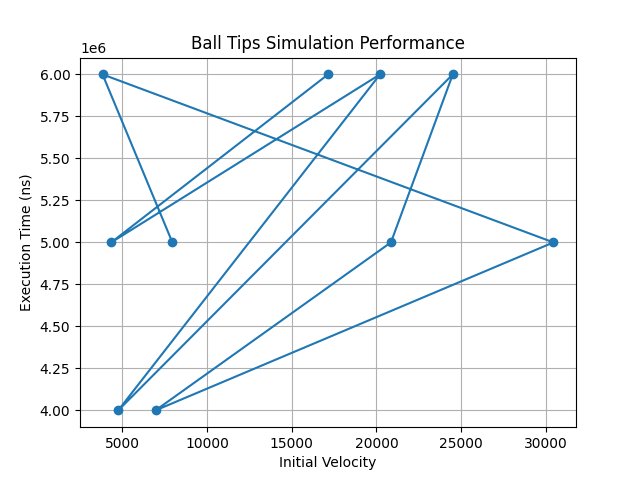
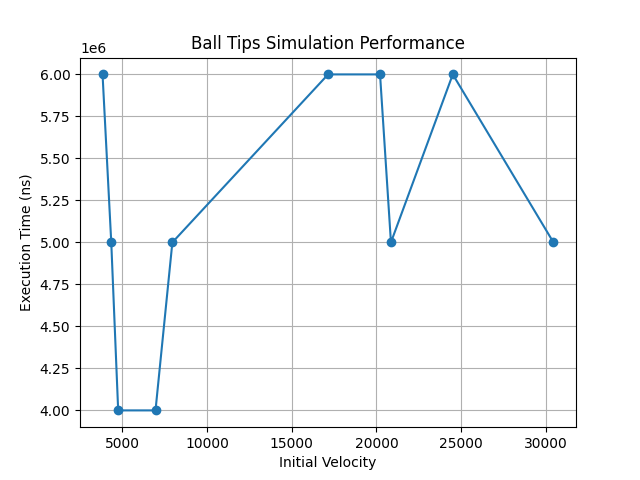
Added Tower of Hanoi Code

diff --git a/Towerofhanoi/towerofhanoi.cpp b/Towerofhanoi/towerofhanoi.cpp
@@ -1,0 +1,143 @@
+// #include <iostream>
+// #include <fstream>
+// #include <cstdlib>
+// #include <ctime>
+// using namespace std;
+
+// // Recursive Tower of Hanoi
+// void towerOfHanoi(int n, char source, char destination, char auxiliary)
+// {
+//     if (n == 1)
+//     {
+//         cout << "Move disk 1 from " << source << " to " << destination << endl;
+//         return;
+//     }
+//     towerOfHanoi(n - 1, source, auxiliary, destination);
+//     cout << "Move disk " << n << " from " << source << " to " << destination << endl;
+//     towerOfHanoi(n - 1, auxiliary, destination, source);
+// }
+
+// // Measure execution time
+// double measureTime(int n)
+// {
+//     clock_t start = clock();
+//     towerOfHanoi(n, 'A', 'B', 'C');  // print moves to console
+//     clock_t end = clock();
+
+//     double seconds = double(end - start) / CLOCKS_PER_SEC;
+//     return seconds * 1000000000.0; // nanoseconds
+// }
+
+// int main()
+// {
+//     const int TESTS = 10;
+//     srand(time(NULL));
+
+//     ofstream file("towerofhanoi.txt");
+//     if (!file) {
+//         cout << "Error creating towerofhanoi.txt file!" << endl;
+//         return 1;
+//     }
+
+//     file << "Test No\tNumber of Disks\tExecution Time (ns)\n";
+//     file << "----------------------------------------------\n";
+
+//     for (int i = 1; i <= TESTS; i++)
+//     {
+//         int n = rand() % 10 + 1;  // 1 to 10 disks
+
+//         cout << "\n----------------------------------------\n";
+//         cout << "Test Case: " << i << endl;
+//         cout << "Number of Disks: " << n << endl;
+//         cout << "Moves: \n";
+
+//         double timeTaken = measureTime(n);
+
+//         cout << "\nExecution Time: " << fixed << timeTaken << " ns\n";
+//         cout << "----------------------------------------\n";
+
+//         // File output (summary only)
+//         file << i << "\t\t" << n << "\t\t" << fixed << timeTaken << "\n";
+//     }
+
+//     file.close();
+
+//     cout << "\nResults saved in towerofhanoi.txt\n";
+//     return 0;
+// }
+#include <iostream>
+#include <fstream>
+#include <cstdlib>
+#include <ctime>
+using namespace std;
+
+// Recursive Tower of Hanoi
+void towerOfHanoi(int n, char source, char destination, char auxiliary)
+{
+    if (n == 1)
+    {
+        cout << "Move disk 1 from " << source << " to " << destination << endl;
+        return;
+    }
+    towerOfHanoi(n - 1, source, auxiliary, destination);
+    cout << "Move disk " << n << " from " << source << " to " << destination << endl;
+    towerOfHanoi(n - 1, auxiliary, destination, source);
+}
+
+// Measure execution time
+double measureTime(int n)
+{
+    clock_t start = clock();
+    towerOfHanoi(n, 'A', 'B', 'C');  // print moves to console
+    clock_t end = clock();
+
+    double seconds = double(end - start) / CLOCKS_PER_SEC;
+    return seconds * 1000000000.0; // nanoseconds
+}
+
+int main()
+{
+    const int TESTS = 10;
+    srand(time(NULL));
+
+    ofstream file("tower_table.txt");
+    ofstream csvFile("tower_csv.txt");   // CSV added
+
+    if (!file || !csvFile) {
+        cout << "Error creating file!" << endl;
+        return 1;
+    }
+
+    file << "Test No\tNumber of Disks\tExecution Time (ns)\n";
+    file << "----------------------------------------------\n";
+
+    csvFile << "Test,Disks,Time_ns\n";   // CSV header
+
+    for (int i = 1; i <= TESTS; i++)
+    {
+        int n = rand() % 10 + 1;  // 1 to 10 disks
+
+        cout << "\n----------------------------------------\n";
+        cout << "Test Case: " << i << endl;
+        cout << "Number of Disks: " << n << endl;
+        cout << "Moves: \n";
+
+        double timeTaken = measureTime(n);
+
+        cout << "\nExecution Time: " << fixed << timeTaken << " ns\n";
+        cout << "----------------------------------------\n";
+
+        // TXT output
+        file << i << "\t\t" << n << "\t\t" << fixed << timeTaken << "\n";
+
+        // CSV output (new)
+        csvFile << i << "," << n << "," << timeTaken << "\n";
+    }
+
+    file.close();
+    csvFile.close();
+
+    cout << "\nResults saved in towerofhanoi.txt and towerofhanoi.csv\n";
+    return 0;
+}
+

diff --git a/Towerofhanoi/plot_tower.py b/Towerofhanoi/plot_tower.py
@@ -1,0 +1,19 @@
+import pandas as pd
+import matplotlib.pyplot as plt
+
+# Read CSV generated by C++ code
+data = pd.read_csv("tower_csv.txt")
+data = data.sort_values("Disks")
+
+# Extract columns
+x = data["Disks"]
+y = data["Time_ns"]
+
+# Plot
+plt.plot(x, y, marker='o')
+plt.xlabel("Number of Disks")
+plt.ylabel("Execution Time (ns)")
+plt.title("Tower of Hanoi - Exponential Time Complexity")
+plt.grid(True)
+plt.savefig("towerofhanoi_graph.png")
+plt.show()

diff --git a/BallNooftips/plot_ballno.py b/BallNooftips/plot_ballno.py
@@ -2,7 +2,7 @@ import pandas as pd
 import matplotlib.pyplot as plt
 
 data = pd.read_csv("ball_csv.txt")
-
+data = data.sort_values("Velocity")
 x = data["Velocity"]
 y = data["Time"]
 

diff --git a/Towerofhanoi/README.md b/Towerofhanoi/README.md
@@ -1,0 +1,51 @@
+# Tower of Hanoi
+## Description
+In this experiment, a random number of disks is generated. The Tower of Hanoi recursive algorithm is then executed to move all disks from the source rod to the destination rod using an auxiliary rod.
+
+The program:
+Generates a random number of disks
+Solves the Tower of Hanoi problem using recursion
+Measures execution time in nanoseconds
+Stores results in both table and CSV formats
+Uses Python to plot a performance graph
+
+## Algorithm
+1.Generate a random number of disks n.
+2. Call the recursive function towerOfHanoi(n, source, destination, auxiliary).
+3. If n == 1, move the disk directly.
+4. Otherwise:
+            Move n-1 disks from source to auxiliary.
+            Move the nth disk from source to destination.
+            Move n-1 disks from auxiliary to destination.
+5. Measure execution time for the process.
+
+## Time Complexity
+The time complexity of the algorithm is:
+O(2ⁿ)
+
+This is because the number of moves required is:
+2ⁿ − 1
+
+## Files
+
+towerofhanoi.cpp
+C++ program for simulation and performance measurement.
+
+towerofhanoi.txt
+Table formatted output for easy human reading.
+
+towerofhanoi.csv
+CSV formatted output used for plotting the graph.
+
+plot_hanoi.py
+Python script using matplotlib to generate the graph.
+
+towerofhanoi_graph.png
+Graph showing Number of Disks vs Execution Time.
+## How to Run
+1. Compile the C++ program.
+2. Run the program to generate output files.
+3. Run the Python script to generate the graph.
+
+## Output
+The output includes a table of results and a graph showing execution time versus input size(random vnumber of disk generated).
